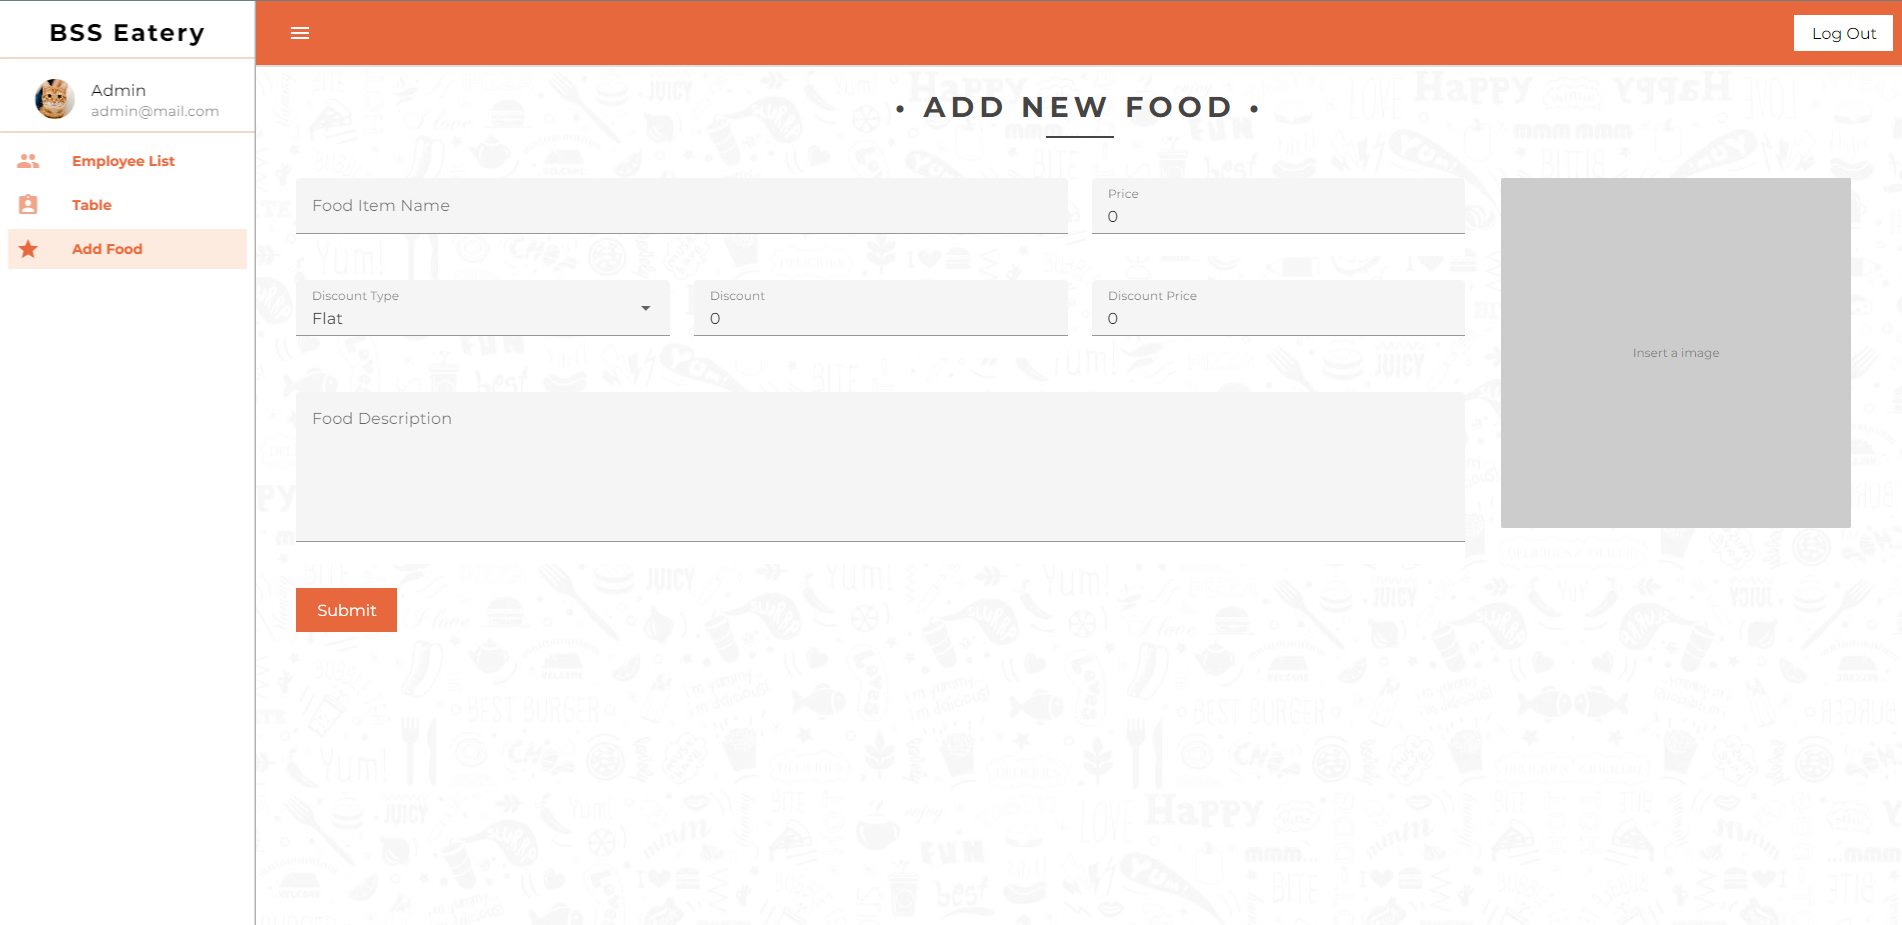
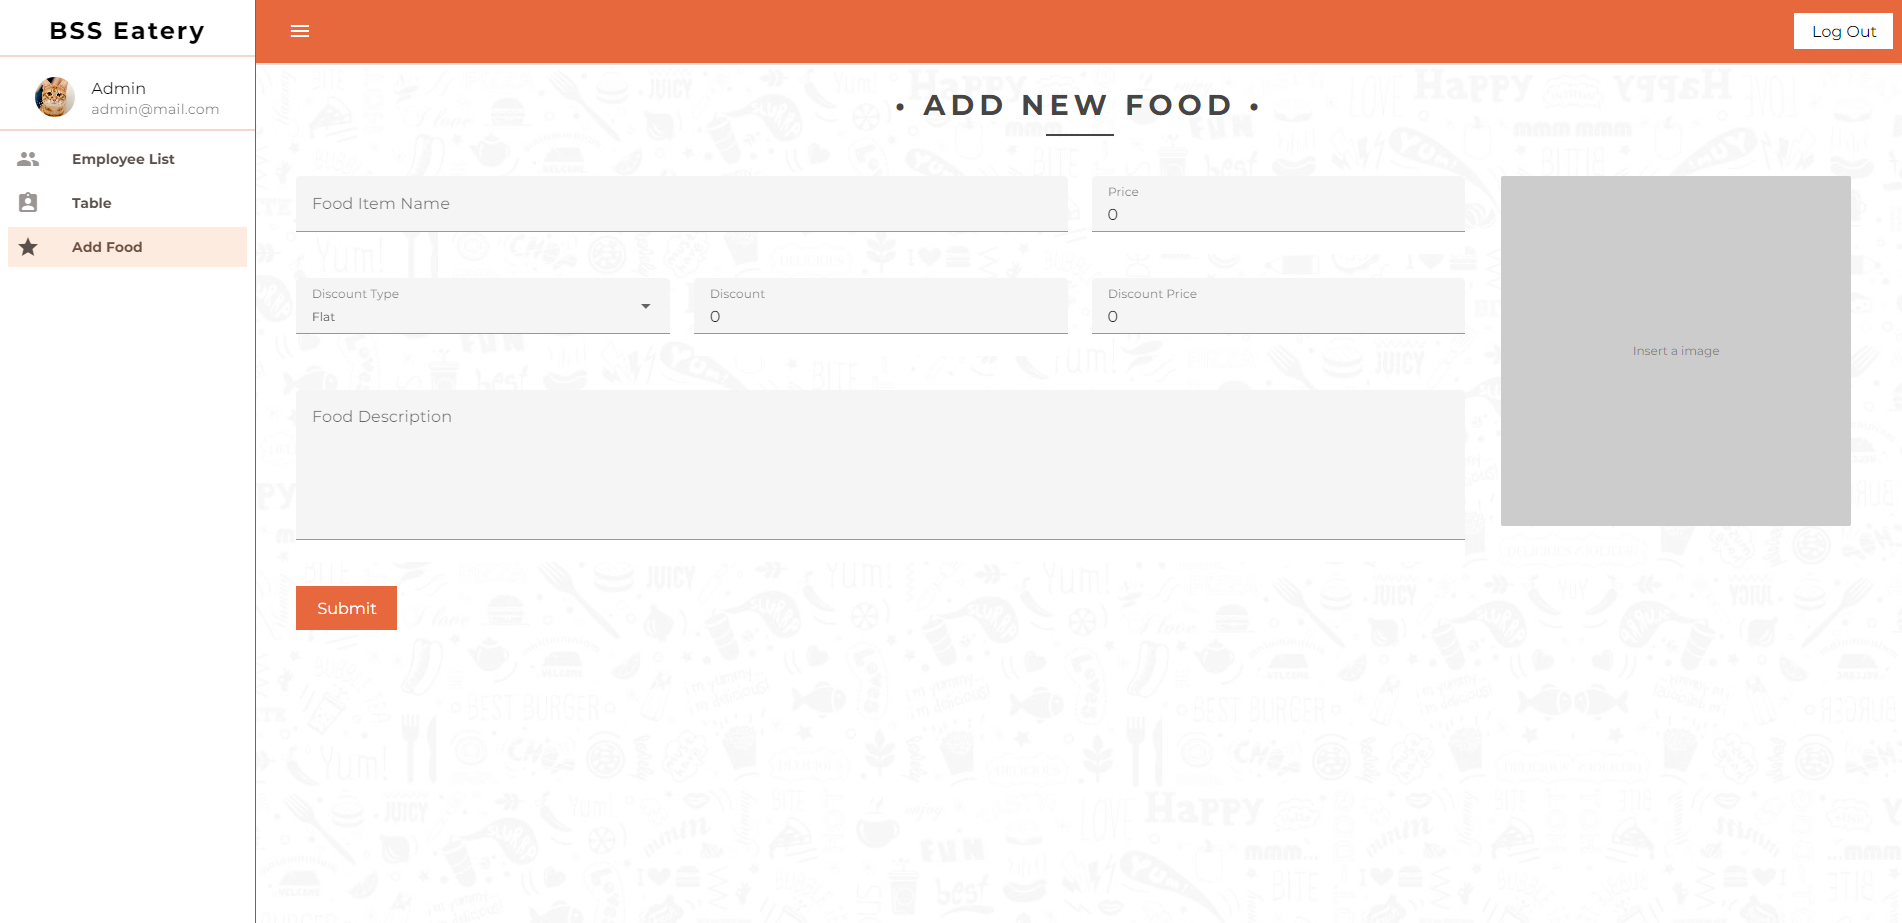
table page updated

diff --git a/src/Views/Table.vue b/src/Views/Table.vue
@@ -67,81 +67,76 @@
             </v-card>
           </v-dialog>
         </template>
-        <template v-slot:item.available="{ item }">
-          <svg
-            v-if="item.isOccupied"
-            xmlns="http://www.w3.org/2000/svg"
-            width="48"
-            height="48"
-            viewBox="0 0 48 48"
-          >
-            <path
-              fill="#45413c"
-              d="M9.76 45.14a14.24 1.86 0 1 0 28.48 0a14.24 1.86 0 1 0-28.48 0Z"
-              opacity=".15"
-            />
-            <path
-              fill="#ff6242"
-              d="m40.06 12.76l-4.82-4.82a1.24 1.24 0 0 0-1.75 0L24 17.43l-9.49-9.49a1.24 1.24 0 0 0-1.75 0l-4.82 4.82a1.24 1.24 0 0 0 0 1.75L17.43 24l-9.49 9.49a1.24 1.24 0 0 0 0 1.75l4.82 4.82a1.24 1.24 0 0 0 1.75 0L24 30.57l9.49 9.49a1.24 1.24 0 0 0 1.75 0l4.82-4.82a1.24 1.24 0 0 0 0-1.75L30.57 24l9.49-9.49a1.24 1.24 0 0 0 0-1.75Z"
-            />
-            <path
-              fill="#ff866e"
-              d="m9 15.6l3.73-3.73a1.23 1.23 0 0 1 1.75 0L24 21.35l9.49-9.48a1.23 1.23 0 0 1 1.75 0L39 15.6l1.09-1.09a1.24 1.24 0 0 0 0-1.75l-4.85-4.82a1.24 1.24 0 0 0-1.75 0L24 17.43l-9.49-9.49a1.24 1.24 0 0 0-1.75 0l-4.82 4.82a1.24 1.24 0 0 0 0 1.75Z"
-            />
-            <path
-              fill="none"
-              stroke="#45413c"
-              stroke-linecap="round"
-              stroke-linejoin="round"
-              d="m40.06 12.76l-4.82-4.82a1.24 1.24 0 0 0-1.75 0L24 17.43l-9.49-9.49a1.24 1.24 0 0 0-1.75 0l-4.82 4.82a1.24 1.24 0 0 0 0 1.75L17.43 24l-9.49 9.49a1.24 1.24 0 0 0 0 1.75l4.82 4.82a1.24 1.24 0 0 0 1.75 0L24 30.57l9.49 9.49a1.24 1.24 0 0 0 1.75 0l4.82-4.82a1.24 1.24 0 0 0 0-1.75L30.57 24l9.49-9.49a1.24 1.24 0 0 0 0-1.75Z"
-            />
-          </svg>
-          <svg
-            v-else
-            class="is-available-icon"
-            xmlns="http://www.w3.org/2000/svg"
-            viewBox="0 0 20 20"
-          >
-            <path
-              fill="#008000"
-              d="M11.707 6.707a1 1 0 0 0-1.414-1.414L7 8.586L5.707 7.293a1 1 0 0 0-1.414 1.414l2 2a1 1 0 0 0 1.414 0l4-4ZM0 8a8 8 0 1 1 16 0A8 8 0 0 1 0 8Zm8-6a6 6 0 1 0 0 12A6 6 0 0 0 8 2Z"
-            />
-          </svg>
+        <template v-slot:item.tableNumber="{ item }">
+          <div class="table-inner-text">
+            {{ item.raw.tableNumber }}
+          </div>
         </template>
-        <template v-slot:item.action="{ item }">
+        <template v-slot:item.numberOfSeats="{ item }">
+          <div class="table-inner-text">
+            {{ item.raw.numberOfSeats }}
+          </div>
+        </template>
+        <template v-slot:item.available="{ item }">
+          <v-icon color="red" class="icon-margin-set" v-if="item.isOccupied">
+            mdi-close-circle
+          </v-icon>
+          <v-icon class="icon-margin-set" else>mdi-check-circle</v-icon>
+        </template>
+        <template v-slot:item.addEmployee="{ item }">
           <v-btn
-            class="text-capitalize action-btn"
+            class="icon-margin-set"
             elevation="0"
+            rounded-circle
             @click="selectTable(item.raw)"
+            icon="mdi-account-multiple-plus"
           >
-            <svg
-              xmlns="http://www.w3.org/2000/svg"
-              width="32"
-              height="32"
-              class=""
-              viewBox="0 0 32 32"
+            <v-icon size="large" color="#025464"
+              >mdi-account-multiple-plus</v-icon
             >
-              <path
-                fill="#e6683c"
-                d="M14 4c-3.854 0-7 3.146-7 7c0 2.41 1.23 4.552 3.094 5.813C6.527 18.343 4 21.88 4 26h2c0-4.43 3.57-8 8-8c1.376 0 2.654.358 3.78.97A7.993 7.993 0 0 0 16 24c0 4.406 3.594 8 8 8c4.406 0 8-3.594 8-8c0-4.406-3.594-8-8-8a7.98 7.98 0 0 0-4.688 1.53c-.442-.277-.92-.51-1.406-.718A7.018 7.018 0 0 0 21 11c0-3.854-3.146-7-7-7zm0 2c2.773 0 5 2.227 5 5s-2.227 5-5 5s-5-2.227-5-5s2.227-5 5-5zm10 12c3.326 0 6 2.674 6 6s-2.674 6-6 6s-6-2.674-6-6s2.674-6 6-6zm-1 2v3h-3v2h3v3h2v-3h3v-2h-3v-3h-2z"
-              />
-            </svg>
           </v-btn>
         </template>
         <template v-slot:item.image="{ item }">
-          <v-img width="45" height="45" :src="renderImage(item.raw.image)" />
+          <v-img width="40" height="40" :src="renderImage(item.raw.image)" />
         </template>
         <template v-slot:item.employees="{ item }">
-          <div v-for="(employee, index) in item.raw.employees" :key="index">
-            <div class="chip">
-              <p>{{ employee.name }}</p>
+          <div class="mt-1">
+            <div v-if="item.raw.employees.length">
+              <div v-for="(employee, index) in item.raw.employees" :key="index">
+                <div class="chip">
+                  <p>
+                    {{ employee.name }}
+                    <v-icon class="remove-name-icon" size="small" color="red"
+                      >mdi-close-circle-outline</v-icon
+                    >
+                  </p>
+                </div>
+              </div>
             </div>
+            <div v-else class="not-assigned-text">N/A</div>
           </div>
-          <!-- <ul>
-            <li v-for="(employee, index) in item.raw.employees" :key="index">
-              {{ employee.name }}
-            </li>
-          </ul> -->
+        </template>
+        <template v-slot:item.action="{ item }">
+          <div class="d-flex">
+            <v-btn
+              class="ma-0 btn-hover d-block"
+              elevation="0"
+              rounded-circle
+              icon="mdi-circle-edit-outline"
+            >
+              <span class="tooltip-text top">Edit</span>
+              <v-icon color="green">mdi-circle-edit-outline</v-icon>
+            </v-btn>
+            <v-btn
+              class="ma-0 btn-hover d-block"
+              elevation="0"
+              rounded-circle
+              icon="mdi-delete-outline"
+            >
+              <span class="tooltip-text top">Delete</span>
+              <v-icon color="#e6683c">mdi-delete-outline</v-icon>
+            </v-btn>
+          </div>
         </template>
       </v-data-table-server>
     </v-container>
@@ -169,7 +164,6 @@ export default {
       formData: [],
       employees: [],
       AssignedEmployee: [],
-      employees: [],
       headers: [
         {
           align: "start",
@@ -178,14 +172,16 @@ export default {
           title: "Table",
         },
         {
+          align: "center",
           key: "tableNumber",
           sortable: false,
           title: "Table Number",
         },
-        { title: "Number Of Seats", key: "numberOfSeats" },
+        { align: "center", title: "Number Of Seats", key: "numberOfSeats" },
         { title: "Assigned Employees", key: "employees" },
         { title: "Availability", key: "available" },
-        { title: "Add Employee", key: "action" },
+        { title: "Add Employee", key: "addEmployee" },
+        { align: "center", title: "Action", key: "action" },
       ],
     };
   },
@@ -271,14 +267,38 @@ export default {
 h4 {
   letter-spacing: 2px;
 }
+.table {
+  max-width: 100%;
+  overflow-x: hidden !important;
+  white-space: nowrap !important;
+  font-family: "Noto Sans", sans-serif;
+  font-size: 16px;
+}
+.table-inner-text {
+  font-size: 16px;
+}
+.not-assigned-text {
+  opacity: 0.8;
+  margin-left: 10px;
+}
 .chip {
   display: inline-block;
-  padding: 0 25px;
-  height: 50px;
-  font-size: 16px;
-  line-height: 50px;
+  padding: 0 15px;
+  margin-bottom: 5px;
+  height: 25px;
+  font-size: 14px;
+  line-height: 25px;
   border-radius: 25px;
-  background-color: #f1f1f1;
+  background-color: #dedbdb;
+}
+.icon-margin-set {
+  display: inline-block;
+  margin-left: 20px;
+  color: green;
+}
+.remove-name-icon {
+  cursor: pointer;
+  border-radius: 50% !important;
 }
 .create-btn {
   margin-bottom: 15px;
@@ -312,6 +332,38 @@ h4 {
     justify-content: space-between;
     font-size: 24px;
   }
+}
+.tooltip-text {
+  visibility: hidden;
+  position: absolute;
+  z-index: 1;
+  width: 80px;
+  color: white;
+  font-size: 12px;
+  background-color: #0e171fcd;
+  border-radius: 10px;
+  padding: 5px;
+}
+.tooltip-text::after {
+  content: "";
+  position: absolute;
+  margin-left: 25px;
+  border-width: 5px;
+  border-style: solid;
+  border-color: #555 transparent transparent transparent;
+}
+.btn-hover:hover .tooltip-text {
+  visibility: visible;
+  font-family: "Times New Roman", Times, serif;
+  font-size: 12px;
+}
+.top {
+  top: -40px;
+  left: -50%;
+}
+.top::after {
+  top: 100%;
+  left: 15%;
 }
 .is-available-icon {
   width: 25px;

diff --git a/src/Views/EmployeeList.vue b/src/Views/EmployeeList.vue
@@ -267,15 +267,17 @@ export default {
   },
 };
 </script>
-<style>
-/* table {
-  width: 100%;
-  table-layout: fixed;
 
-  border-collapse: collapse;
-  border-spacing: 0;
-  border: 0;
-} */
+<style>
+.v-data-table-footer__items-per-page {
+  font-size: 12px;
+}
+.v-select .v-select__selection:first-child {
+  font-size: 12px;
+}
+.v-data-table-footer__info {
+  font-size: 12px;
+}
 </style>
 <style scoped>
 @import url("https://fonts.googleapis.com/css2?family=Noto+Sans&display=swap");
@@ -349,28 +351,23 @@ h4 {
   border-style: solid;
   border-color: #555 transparent transparent transparent;
 }
-
 .btn-hover:hover .tooltip-text {
   visibility: visible;
   font-family: "Times New Roman", Times, serif;
   font-size: 12px;
 }
-
 .top {
   top: -40px;
   left: -50%;
 }
-
 .top::after {
   top: 100%;
   left: 15%;
 }
-
 .table-container {
   position: relative;
   width: 100%;
 }
-
 .spinner-container {
   position: absolute;
   display: flex;

diff --git a/src/components/layout/Admin.vue b/src/components/layout/Admin.vue
@@ -132,13 +132,13 @@ hr {
 <style>
 .v-list-item--nav .v-list-item-title {
   border-radius: 0px;
-  color: #e6683c !important;
+  color: #59504c !important;
   font-size: 14px !important;
   opacity: 1;
   font-weight: 550;
 }
 .v-list-item__prepend > .v-icon {
-  color: #e6683c !important;
+  color: #59504c !important;
 }
 .v-list-item--variant-text .v-list-item__overlay {
   background: rgb(250, 88, 0);

diff --git a/README.md b/README.md
@@ -30,6 +30,7 @@ User Friendly online resturant management system with an admin role that allows 
 
 ![App Screenshot](src/assets/projectImages/add-employee.png)
 ![App Screenshot](src/assets/projectImages/add-employee_responsive.png)
+![App Screenshot](src/assets/projectImages/add-employee_responsive_2.png)
 ![App Screenshot](src/assets/projectImages/add-food.png)
 ![App Screenshot](src/assets/projectImages/add-food_responsive.png)
 ![App Screenshot](src/assets/projectImages/add-newTable.png)
@@ -37,11 +38,16 @@ User Friendly online resturant management system with an admin role that allows 
 ![App Screenshot](src/assets/projectImages/login.png)
 ![App Screenshot](src/assets/projectImages/login_responsive.png)
 
-     Table with text truncated
+     Employee List Page: Table with text truncated
 ![App Screenshot](src/assets/projectImages/employee-list.png)
 ![App Screenshot](src/assets/projectImages/employee-list_responsive.png)
-![App Screenshot](src/assets/projectImages/employee-list_responsive_2.png)
 ![App Screenshot](src/assets/projectImages/employee-list_responsive_3.png)
+
+     Table List Page
+![App Screenshot](src/assets/projectImages/Table_list.png)
+![App Screenshot](src/assets/projectImages/Table_list_responsive.png)
+![App Screenshot](src/assets/projectImages/Table_list_responsive_2.png)
+
 
 ## Login Information
 **email**: admin@mail.com
